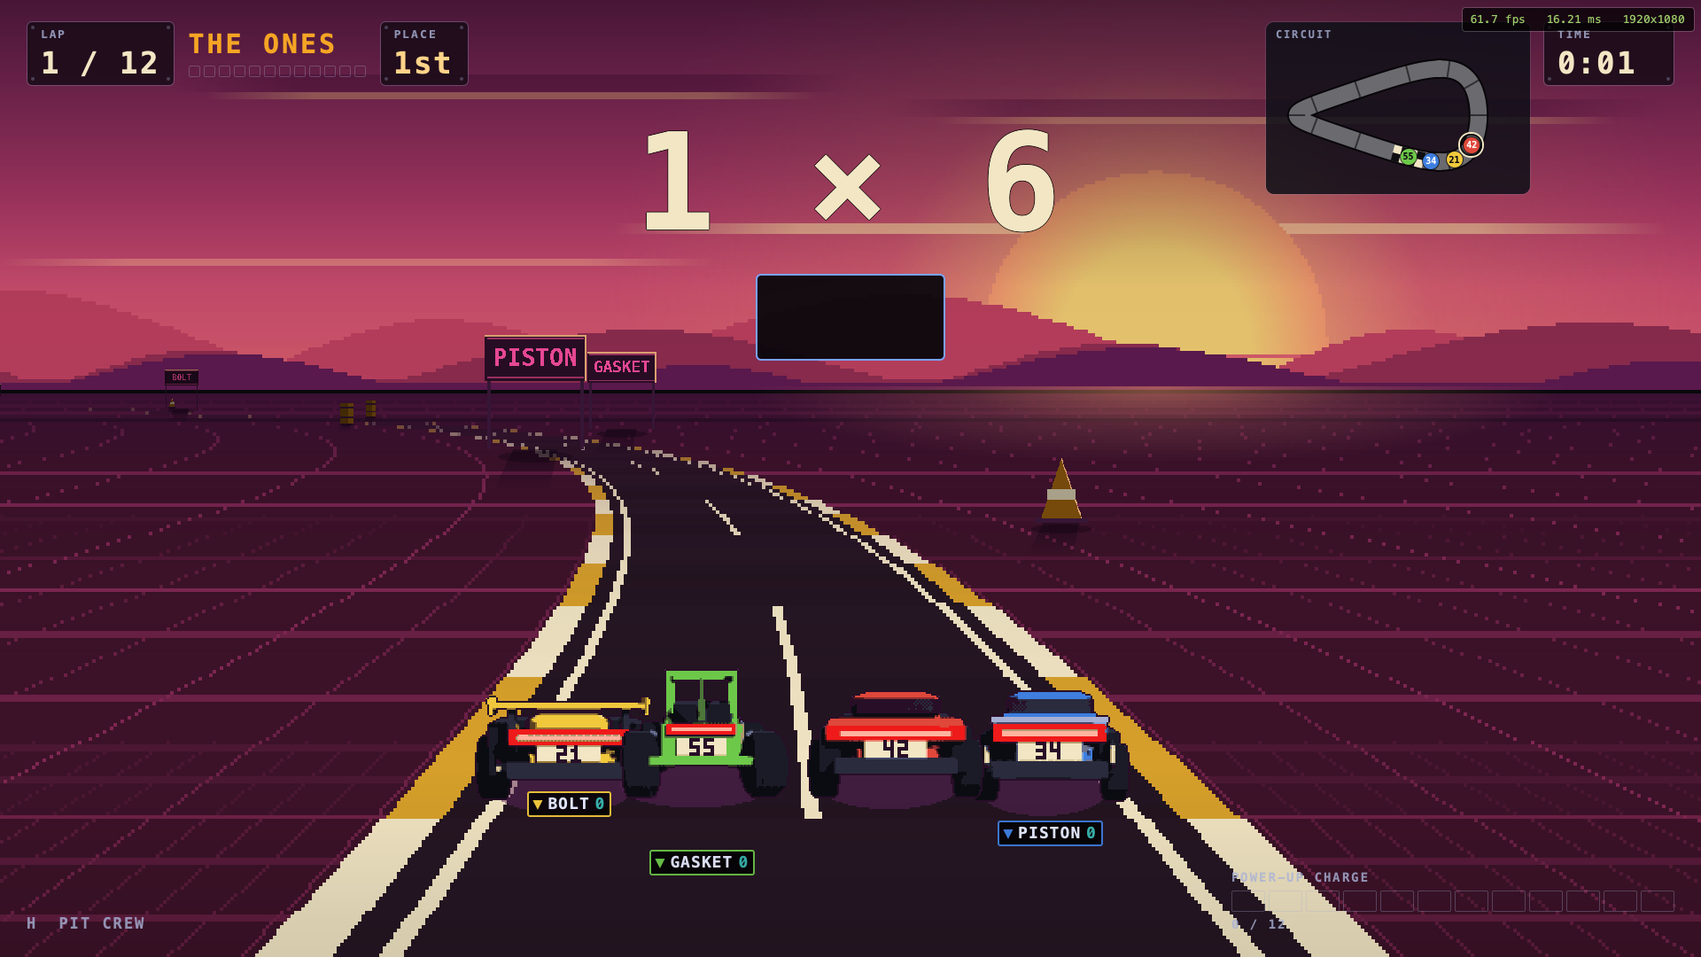
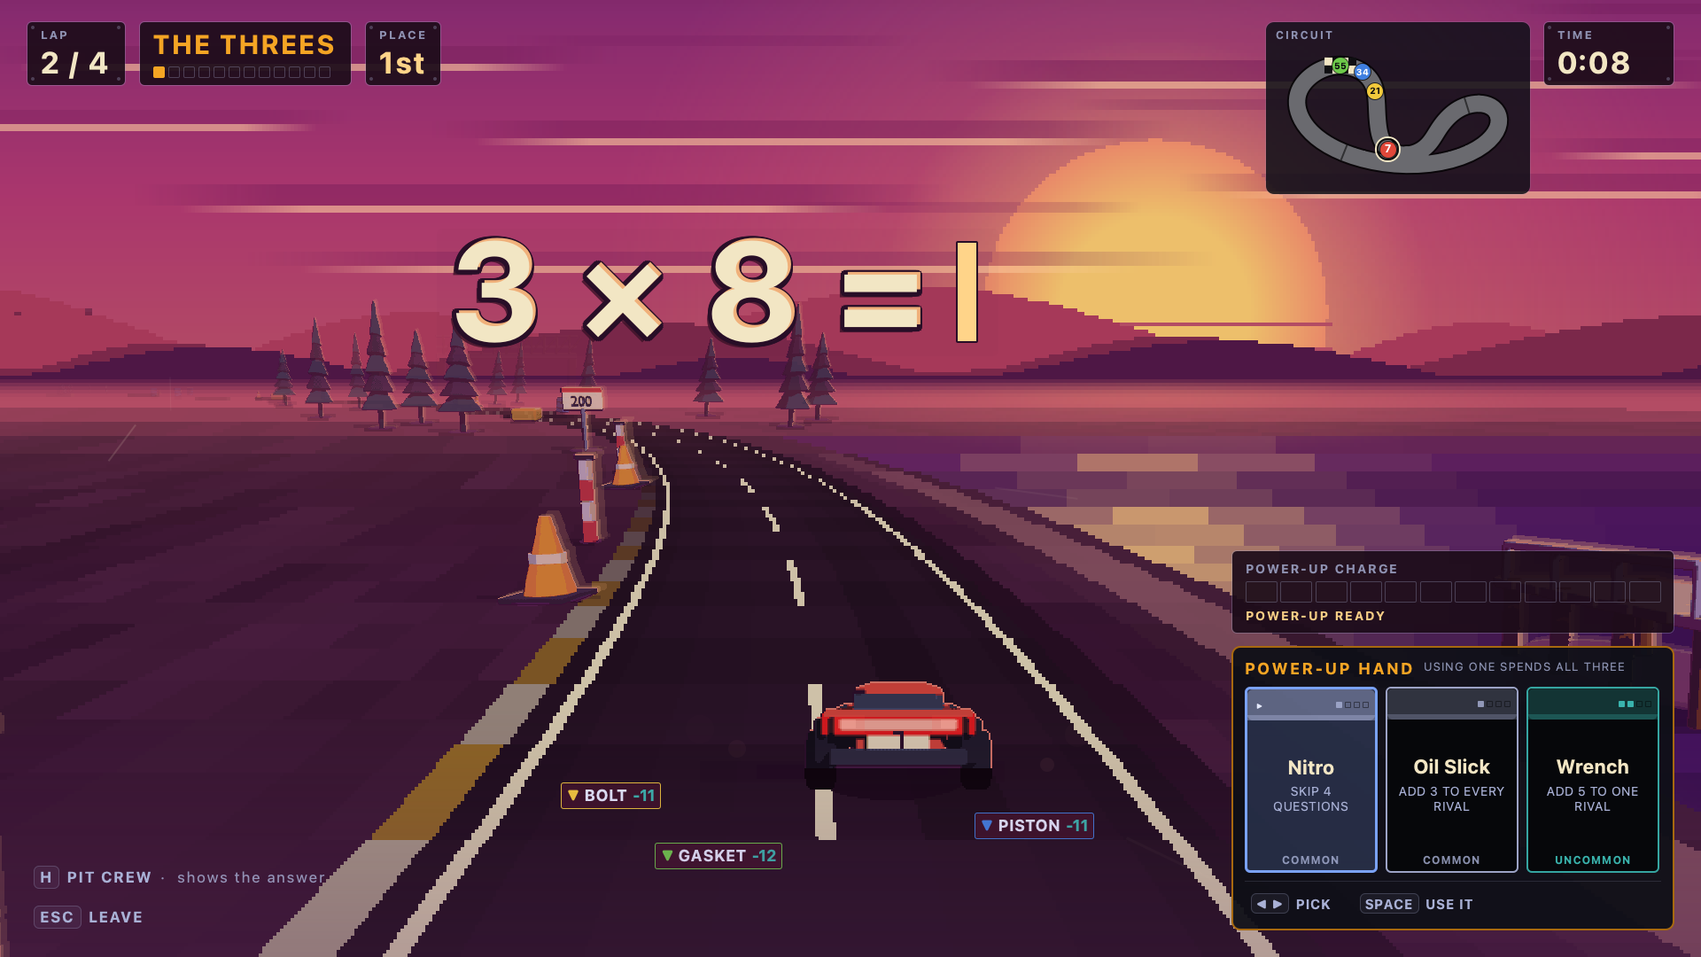
HANDOFF.md: the play-test packet, with the pictures of every screen at this commit
Rewritten for two readers: the maintainer opening the pull request into main,
and the next coordinator. Where every piece stands, what was done today for the
play test (F rounds 7 and 8, the packaging commit, the executed add/remove
cycle, the CI fix on the runner's Qt 6.4), what round 8 leaves open and
unjudged, the performance numbers with the caveats that make them readable,
what testers should be asked to report, the environment facts, and the kickoff
prompt. The install URL is in the README only: this file is inside the honesty
gate's scope and the no-network invariant refuses it a URL.

docs/handoff/ now holds the garage, the countdown at GO, the race with a hand
dealt, and the results, all from the round-8 keyboard-only Grand Prix.

diff --git a/HANDOFF.md b/HANDOFF.md
@@ -1,149 +1,156 @@
-# Handoff: Turbo Tables Solo, after piece C round 3
+# Handoff: Turbo Tables Solo, ready for the play-test pull request
 
-Written 2026-09-04 at `cc4064b` on `gauntlet/turbo-tables-build`. The run stopped
-on the maintainer's instruction once the cars were judged ready enough to hand
-back to the gauntlet loop with the new assets, not because every piece is won.
-This packet is written for the next coordinator. Read `docs/plan.md` (v2) and
-`docs/design.md` (v3) first; this file says where the tree is against them.
+Written 2026-09-07 on `gauntlet/turbo-tables-build`. This packet is for two readers: the
+maintainer opening the pull request into `main`, and the next coordinator who continues the
+gauntlet loop after the play test. It says where every piece stands against `docs/plan.md`
+(v3.1) and `docs/design.md` (v4.2), what was proved today, and what is still open.
 
 ## 1. Where the tree stands
 
 | piece | state | last verdict |
 | --- | --- | --- |
-| 1 rules engine | frozen won (round 2) | "Better implementation of the specification: A" (ours) |
-| 2 rivals, ghost, save | frozen won (round 4) | "YES: `src/engine/save.ts` now implements the design's Data and Modes rows faithfully" |
-| 6 package and gates | frozen won (round 4, hardened round 5) | "Winner: Candidate A" (ours) |
-| 7 shell integration | won round 2, hardened round 3 | "As good as the first-party overlay? YES. Safe on a child's machine? YES." Round 3 (cold-summon warm-up) is built and VM-verified: 0 of 25 keys leaked over 5 cold starts, 0 of 35 warm. |
-| C cars | **built through round 4, not yet judged** | Round 3: "CRAFT: NO. Pipeline: YES" -- the finding was that there is no glasshouse. Round 4 answers it; see section 3. |
-| 3 garage | to re-run under v3 | Round 5: ours won "on content and interface, not on craft". Round 6 built (one camera, real shadow, Tab) and never judged. |
-| 4 race view | to re-run under v3 | Round 2: ours won "partly on craft, for the first time, and still not on the picture". Round 3 built (minimap, the loop that never ran) and never judged. |
-| 5 countdown, picker, results, settings | to re-run under v3 | Round 3: NO (the card key cost a streak). Round 4 built (the rewrite) and never judged. |
-| seam (save file end to end) | **open, and the first thing to do** | Round 2: "YES, this plugin can still replace a child's records". Round 3 built. Then the VM verifier found the way out dead; section 4. |
+| 1 rules engine | frozen won | "Better implementation of the specification: A" (ours) |
+| 2 rivals, ghost, save | frozen won | "YES: `src/engine/save.ts` implements the design's Data and Modes rows faithfully" |
+| C cars | frozen as a build (round 4) | Round 3 said craft NO on the glasshouse; round 4 answered it and was the last round on it by the maintainer's instruction |
+| seam (save file end to end) | closed (round 4) | The dead START A NEW SAVE FILE button found in the VM was fixed in seam round 4 and proved on the four quarantine cases |
+| 7 shell integration | won and hardened (round 3) | "As good as the first-party overlay? YES. Safe on a child's machine? YES." Cold summon 0 of 25 keys leaked |
+| T track | built to round 3 | The shader world and the prop kit placed by sector; judged by the maintainer's play, not yet by a critic |
+| M mouse | built to round 5 | Every control clickable with parity to the keyboard; `tst_mouse_parity` is the gate |
+| F feel | **round 7 WIN; round 8 built, not yet judged** | Round 7: "the hand now fires on the first press of a key that can never be a digit ... and the answer line `7 × 8 = ▮` is unmistakably the place to type." Round 8 (`49159fd`) answered nine of the critic's twelve defects with a named test and a mutation each; a fresh critic has not seen it |
+| 3 garage | round 2 under v4 | One room, one light; judged by the maintainer's play |
+| 5 countdown | round 1 under v4 | The race's own view held at the start line |
+| 6 package and sound | round 1 under v4; sound handed off | Fifteen synthesised power-up cues nobody has heard (`docs/open-questions.md` section 6) |
 
-Every gate is green at `cc4064b`: `npm run check` exit 0 (657 engine tests,
-types, boundary, bundle, sprites, README honesty), `qmltestrunner` 136/0 on
-`tests/qml` and 37/0 on `tests/qml-shell`, scanner `passed`, and
-`npm run sprites -- --verify` rebakes all 48 sheets byte-identical.
+Every gate is green at HEAD: `npm run check` exit 0 (engine tests, types, boundary, qml ids,
+key hints, bundle, sprites, props, terrain, sfx, README honesty, marketplace scan `passed` with
+no findings and no capabilities), `qmltestrunner` 307/0 on `tests/qml` and 38/0 on
+`tests/qml-shell`, 659 engine tests, and the CI mouse suite 43/0 on the runner's Qt 6.4 as well
+as on Qt 6.11. CI is green at `49159fd`.
 
-## 2. Install, open, play
+## 2. What was done for the play test on 2026-09-07
 
-Install as the README says: clone into `~/.config/omarchy/plugins/` and
-`OMARCHY_PATH=/usr/share/omarchy omarchy plugin enable io.github.dmcchesney.turbo-tables-solo`.
-The overlay needs its own entry under `plugins` in `~/.config/omarchy/shell.json`;
-`omarchy plugin enable` writes it (see `docs/environment.md` for the traps).
-Open it from the kart button in the bar, or bind a key:
+- **Piece F round 7** (`5d53a5d`): the maintainer's second-session findings. Digits never touch
+  the hand; Left and Right move the highlight, Up and Down aim, Space fires; Enter is only the
+  answer and Escape only leaves. The fact and the answer are one line with a blinking caret;
+  the stall is drawn on that line; one callout slot; race hints are key caps; results say
+  ANSWERS SHOWN, BEST COMBO and N CARDS PLAYED under a sunset band. A blind critic called it a
+  WIN on the two findings.
+- **Packaging** (`a88cf47`): `manifest.json` and the README stop saying the game is being built.
+  `preview.png` is the garage as the plugin draws it, taken through the harness; the README gate
+  now requires it and holds README and NOTICE to the same two sentences about it. The 1.78 MB
+  multiplayer mock is deleted. NOTICE records the props, the sound and the shader.
+- **The add, enable, play, remove cycle was executed** in the Omarchy 4 VM against a clone of
+  the pushed branch under a different plugin id: add cloned, validated and enabled both kinds;
+  the overlay opened and a race ran; remove deleted the folder and unloaded the plugin and left
+  the second kind's `shell.json` entry behind exactly as the README says, which
+  `omarchy plugin disable` cleared. The README's Remove section now says so.
+- **Piece F round 8** (`49159fd`): the engine decides a card was spent. `fire()` requests a play
+  and the slam, the sound and the hand's reset happen only on the engine's `cardUsed`; nothing
+  fires after the child has finished, during the deal, or with no rival to aim at. `POWER-UP
+  READY` reads on the charge bar at the deal; digits typed during a pit-crew reveal are held;
+  the countdown draws the full line `7 × 8 = ▮`; the Pile-Up telegraph is the decided 900 ms;
+  the callout slot hangs above the line's ink so it can never sit on a far kart (a departure
+  from v4.1's "under the fact line" wording, with the measurements in the commit); browsing
+  cards keeps the aim; the three-digit-answer test is back; the harness's card injection is
+  bounded. Sixteen mutations each kill their named test. A flaky mouse-parity case was a real
+  race (a card was a click target while being dealt) and is fixed.
+- **CI on the runner's Qt** (`0fe3ca6`): two mouse-parity tests failed only on Ubuntu 24.04's
+  Qt 6.4.2. Reproduced in a container built from the workflow's own package list; neither was a
+  product defect (a discarded delegate Qt 6.4 still reports visible; the software renderer
+  re-rasterising two text layers on first hover). The tests now measure the rule, and each still
+  fails when its rule is broken.
+
+## 3. Open after round 8
+
+Unjudged: round 8 has not had a blind critic; the round-7 verdict is
+`scratchpad/verdicts/pF-round7.md` in session 661478d4 and round 8's evidence is `pF8/` there.
+Left deliberately: the hand card text overruns its tier label at 1024 by 600 (pre-existing);
+the highlight is a border tone and a small mark, which is a design call; the victim's impact
+(sparks, jolt, smoke) from `docs/open-questions.md` 5.3 item 5 is its own piece. Observed and
+not touched: the fact line is drawn 114 px higher on the countdown than in the race at 1080p,
+so it moves across the cut; GO on the countdown is now 17 to 19 percent of the frame beside
+the wider line, down from 23. The pictures of every screen at this commit are under
+`docs/handoff/` (`garage-after.png`, `countdown-after.png`, `race-after.png`,
+`results-after.png`).
+
+## 4. Performance, measured today
+
+The plan's performance section binds every remaining round and says the in-game counter
+saturates; these are the numbers behind it.
+
+| where | state | CPU | RSS |
+| --- | --- | --- | --- |
+| VM shell process, llvmpipe, 1920 by 1200 | overlay closed | 0 | 644 MiB |
+| | garage open | 0 | 674 MiB |
+| | racing | 2.1 cores | 722 MiB |
+| | closed again after a race | 0 | 731 MiB |
+| Mac harness, software backend | race at 1920 by 1080 | 22 ms CPU per frame | 265 MB |
+| | race at 480 by 270 | 17 ms CPU per frame | 217 MB |
+| | track held still at 480 by 270 | 2.6 ms per frame | |
+| | garage | about 0 | |
+
+Read with care: the VM image forces software rendering for every shell window
+(`LIBGL_ALWAYS_SOFTWARE=1`), which a child's machine with an integrated GPU does not; and under
+Qt's software backend the track takes the Canvas road fallback, so the Mac's per-frame number
+is the JavaScript road a GPU machine never runs. Neither is the child's machine. The plugin
+retains about 87 MiB after the overlay closes, and the prop kit decodes to 145 MB of RGBA from
+0.43 MB on disk (the water tower is 2592 by 2870 for a sprite sixty pixels tall). The steps, in
+order: a real instrument (CPU seconds per frame at two sizes); render the whole race into a
+half-resolution layer when Qt reports a software renderer; a smaller prop kit and freeing the
+race's images on close; audit the per-frame JavaScript; run the VM shell without the software
+variable for a virgl number; ask testers for their GPU and a shell CPU reading while racing.
+
+## 5. Install, open, play
+
+Install with the one-line `omarchy plugin add` command in the README's Install section (this
+file may not carry a URL: the honesty gate's no-network invariant covers it). Open it from the
+kart button in the bar, or bind a key:
 
 ```lua
 o.bind("SUPER + SHIFT + T", "Turbo Tables", "omarchy-shell shell toggle io.github.dmcchesney.turbo-tables-solo")
 ```
 
-`Escape` closes the overlay and hands the keyboard back.
+Play, in order: Practice on the 2s to 5s; a Time trial; the Ghost against it; a Grand Prix at
+Pro rivals. `Escape` is back one everywhere. Remove with
+`omarchy plugin remove io.github.dmcchesney.turbo-tables-solo --yes`, then
+`omarchy plugin disable` once more for the overlay's entry, then delete
+`~/.local/share/turbo-tables-solo/garage.json` if the records should go too.
 
-What to play, in order, to see the whole game:
+## 6. What testers should be asked to report
 
-1. Practice on the 2s to 5s (garage: MATH SET, then READY UP).
-2. A Time trial on the same set.
-3. The Ghost against your own time trial.
-4. A Grand Prix at Pro rivals: the full 12-lap race with power-ups and the results screen.
+- Their graphics hardware (`lspci | grep -i vga`) and the shell's CPU while racing (`top`
+  on `omarchy-shell`), because no GPU number exists yet.
+- Whether the hand fires the first time, every time, and whether the answer line is where
+  they typed without being told.
+- Anything the sound does, since nobody who built it has heard it.
+- The size of their screen: the game is checked at 1920 by 1080, 1366 by 768 and 1024 by 600.
 
-## 3. The cars, before and after
+## 7. Known flakes and environment facts
 
-The bar is `docs/golden-hour-car.png`. The pictures:
-
-- `PREFIX/evidence/pieceC-r4-ours.md` and the images beside it are round 4's evidence.
-- `docs/handoff/coupe-beside-the-bar.png`: the crop, then the round-2 coupe, then the round-3 coupe, stall camera, nose to the lens, at 3x.
-- `docs/handoff/bodies-before-after.png`: six bodies, round 2 on the left, round 3 on the right, at stall/0, stall/4 and road/0.
-- `docs/handoff/cutouts-before-after.png`: the same as black cut-outs, the plan's silhouette test.
-- `docs/handoff/garage-after.png`, `countdown-after.png`, `race-after.png`: the three screens at 1920x1080 through the harness, seeded body 0, paint 0, number 42.
-
-What round 3 changed and measured (the critic's own scripts, 192 cells):
-
-| measure | round 3 | round 4 |
-| --- | --- | --- |
-| greenhouse band that is the OUTLINE tone, coupe / hatch / saloon, stall 192 | 37 / 50 / 34% | 2.5 / 3.7 / 2.0% |
-| greenhouse band that is a GLASS tone, same three | 0 / 0 / 0% | 24.1 / 35.5 / 21.5% |
-| sun-side body edge carrying the rim step, lamp and cream pixels excluded, road/0 192 | 0.0% on all six | 89.5 to 95.4% |
-| the same on the SHADOW-side edge | 0.0% | 0.0 to 1.3% |
-| cut-out pairs under 15%, all 15 pairs x 8 yaws x 5 drawn cells | 42 of 600 | 29 of 600 |
-| worst single pair-yaw, any drawn cell | 5.4% (coupe/pickup, stall 48, yaw 5) | 9.3% (same pair and cell) |
-| coupe vs saloon in the roster slot (stall 96, the pick screen) | 12.4% | 16.0% |
-| coupe against saloon, stall 192 | 129x64 vs 134x65 (the claim was false) | 133x65 vs 129x66 |
-| tail lamp pixels at the worst drawn cell, per body | 0 on buggy and pickup at stall 48 | 5 or more everywhere |
-| ramp steps that classify as another paint's hue | yellow's deep step, all 6 bodies | none |
-| highlight saturation, purple / blue / pink | 0.33 / 0.39 / 0.37 | 0.43 / 0.52 / 0.41 |
-| cream on the flank at stall 192 (the livery) | 407 px, all of it plate and roundel | a door panel per flank; see the evidence |
-| sheets on disk | 1,294,730 bytes | see `assets/karts/manifest.json` |
-
-Round 4 answered a blind critic's round-3 verdict, whose finding was that the
-cars had **no glasshouse**: the windows were painted `2a1030`, three units from
-the outline ink `280e27`, so every window pixel quantised to the outline colour
-and the roof floated as a lid over a hole with no pillar. Glass now has its own
-palette tone and is emitted rather than lit, so it is that tone at every yaw;
-each closed body has two side windows with a body-colour pillar between them
-and a dark beltline moulding under them; the flanks are deeper so the door
-roundel sits on bodywork instead of hanging over the shoulder; and the livery
-is a cream door panel between the arch openings instead of a band the arch
-cutters ate. `pxart.outline()` now draws the sunward third of the ring in the
-paint's highlight step, so the ink line breaks where the sun is.
-
-`src/tools/carstats.py` is new and is where every number above comes from. It
-exists because round 3's "rim" figure was reproducible to the decimal and
-substantively false: 47 to 93% of the pixels it counted were the fixed
-tail-lamp glow strip. Every count in it names its exclusions, and the rim
-table carries a shadow-side column that must stay near zero.
-
-**Reservations on the cars, stated plainly.** Round 4 has not been judged. The
-sun-side rim is now a constructed feature, so its 90% is a coverage check of a
-deliberate edge, not a discovery: the honest pair is that number beside the
-0.0% shadow-side share. `coupe/pickup` at stall 48 yaw 5 is still 9.3% and
-`hatch/saloon` at stall 96 yaw 5 is 11.3%, so three of the fifteen pairs still
-collide at some yaw. Headlamps are still unlit at rest and are only ever seen
-from the stall camera's front quarters. The number is still never drawn in the
-roundel and on the plate at once. Nothing was done about the Bayer checkerboard
-on flat dark panels beyond what the glass tone removed, or about the detached
-5 px islands on the buggy's cage at the 48 cell.
-
-## 4. The seam: the way out is dead, and the tests hid it
-
-A verifier drove the real shell in the VM at `b9fb591` and found that the
-quarantine's START A NEW SAVE FILE button never reaches `shell/FileStore.qml`
-for any read-side quarantine (corrupt, legacy, `chmod 000`, shut home). Cause:
-`ui/Store.qml` runs `adopt(null)` at construction, before `TurboTables.qml`
-assigns the text backend, which sets the protocol latch to "object"; the
-authorised replacement then refuses "text" against "object" and the strip
-shows an internal sentence about protocols. `tests/qml/tst_store.qml` hid it
-by setting `Store._adoptedFormat = ""` by hand before the button scenarios.
-Underneath, the shell runtime's file writer cannot replace a `chmod 000`
-file at all (`saveFailed(PermissionDenied)`, atomic or not), which the test
-double under `tests/qml-shell/` (`FakeFs.qml`) models as succeeding. No save was
-destroyed; the family is left in the trapdoor. The full report is section 4
-of the verifier's file (`scratchpad/verdicts/vm-b9fb591.md` in session
-2feb2154; the defect list is reproduced in the kickoff prompt below). A seam
-round-4 builder was briefed and died at a usage limit before editing anything.
-**This is the first piece to run.**
-
-## 5. Frame rates, honestly framed
-
-- Mac, software rasteriser, offscreen, 1920x1080 through the harness: garage 62.7 fps, countdown 62.4, race 61.7. These are the harness's own counter under the software backend; they say the CPU can paint the frame, not what a GPU does.
-- VM, real shell, race view: 35.5 fps, median 29 ms per frame, p95 37 ms. **The VM image pins every Qt client to llvmpipe** (`LIBGL_ALWAYS_SOFTWARE=1` in Hyprland's environment), so this is the software path; a scratch instance without the variable gets virgl and 60 fps on a trivial scene. The device number has still not been measured on a GPU.
-
-## 6. Placeholders and things accepted with a reservation
-
-- The garage's left wall and shelves are flat; the roller door and sunset are the prototype's.
-- The race view's rival labels float under or over far cars, and lane 0 puts a car's wheels on the kerb at the start line (both noted by two critics; piece 4's re-run owns them).
-- Sound is absent by design at this stage; the README makes no audio claim.
-- `docs/open-questions.md`: race mode and math set are not persisted (the design's Data row), and the multi-agent tree rule (never `git checkout --` here).
-- The M2 gate clause at Pro (about 50%) was diagnosed as correlation and recorded, not fixed.
-- Piece 7's "the first summon leaks keys" is closed and VM-measured; the "full disk" and "hung mount" cases remain inference.
-
-## 7. Environment facts the next coordinator needs
-
-- Every Qt process on the Mac is headless (`QT_QPA_PLATFORM=offscreen`, `QT_QUICK_BACKEND=software`, `-platform offscreen`); Don works on the machine while agents run. Blender runs `-b` only.
-- Never revert with git in this tree; several agents write to it and it is 9p-mounted live into the VM. A builder that must rebake works in a worktree and fast-forwards.
-- The VM is up again (`ssh omarchy-turbo-tables`); `utmctl start` on a running VM says OSStatus -2700, which is not an error. Never `omarchy plugin remove` there.
-- The scanner needs `TURBO_TABLES_MARKETPLACE=/Users/don/Developer/omarchy-plugin-marketplace` from a worktree.
-- `qmltestrunner -platform offscreen -import ui -import dev/imports -input tests/qml` and `-import ui -import tests/qml-shell -input tests/qml-shell`.
+- `tst_mouse_parity` `test_32` was flaky about one run in three; round 8 found the cause (a
+  card accepted clicks while being dealt) and fixed it, 6 of 6 green after.
+- CI's QML job runs Ubuntu 24.04's Qt 6.4.2 and only the mouse suite and the parity walk; the
+  298-test suite runs on the Mac and in the VM (Qt 6.11). A faithful container recipe is in the
+  session scratchpad under `ci-qt/`.
+- Every Qt process on the Mac is headless; never open a window. Never revert with git in this
+  tree and never `git add -A`; several agents write to it and it is 9p-mounted into the VM.
+- The VM's `omarchy-launch-shell` is a supervisor that respawns the shell; kill supervisors by
+  pid, then the shells, clear `/run/user/1000/quickshell`, launch once, wait for the ping.
+- The scanner needs `TURBO_TABLES_MARKETPLACE=/Users/don/Developer/omarchy-plugin-marketplace`
+  when run from a worktree.
 
 ## 8. Kickoff prompt for the next session
 
-> Continue the Turbo Tables Solo build under `docs/plan.md` v2 and `docs/design.md` v3 from `cc4064b` on `gauntlet/turbo-tables-build`; read `HANDOFF.md` first. Pieces 1, 2 and 6 are frozen won; piece 7 is won and hardened. First run **seam round 4** as a piece of its own: the quarantine's START A NEW SAVE FILE button is dead in the shipping wiring (`ui/Store.qml` latches "object" at construction before `TurboTables.qml` assigns the text backend; `tst_store.qml` hides it by hand-setting `_adoptedFormat`; `FakeFs.qml` models a `chmod 000` file as writable when the shell runtime in the VM refuses it) and the fix must be proved in the VM with the button route S, Down x7, Return, Right, Return on a legacy file, a `chmod 000` file, a corrupt file and a missing file, restoring the guest's save byte-identical. Piece C is **finished as a build**: round 4 was the last round on it, on the maintainer's instruction, judged or not. If it is judged, judge it blind against `docs/golden-hour-car.png` on the interior, not the cut-out -- the bar loses a pure cut-out test too -- and use `src/tools/carstats.py` to reproduce any number in section 3. Then pieces 3, 4 and 5 in parallel from the current tree (the prototype is already merged; do not start from `proto/golden-hour`), then 6, then 7 in the VM. For each piece fan out a builder and a fresh critic; the critic compares ours against the bar blind, labels stripped, on that piece's rubric, and is harsh. Every Qt process is headless; never open a window on this Mac. Never revert with git in this tree. Never break the rules under "Rules the builder may not break." `/loop` on each piece until the critic picks ours. When every open piece is won and CI is green, rewrite `HANDOFF.md` and stop.
+> Continue the Turbo Tables Solo build under `docs/plan.md` v3.1 and `docs/design.md` v4.2 from
+> HEAD of `gauntlet/turbo-tables-build`; read `HANDOFF.md` first. Pieces 1, 2, 6 (v1), C, 7 and
+> the seam are frozen. Piece F is won on the maintainer's findings; run one blind critic on
+> round 8 (`49159fd`) first and carry forward whatever it and section 3 leave open. Then a performance piece under the plan's performance section,
+> instrument first, with the steps HANDOFF section 4 gives and the play testers' hardware
+> reports as the bar. Then the victim-impact work of `docs/open-questions.md` 5.3 item 5 as a
+> piece of its own, then 3 and 5 under v4.2, then 6, then 7 in the VM. Never two pieces on one
+> file at once. For each piece fan out a builder and a fresh critic; the critic compares ours
+> against the bar blind, labels stripped, on that piece's rubric, and is harsh. Every Qt process
+> is headless; never open a window on this Mac. Never revert with git in this tree, and never
+> `git add -A`. Never break the rules under "Rules the builder may not break." `/loop` on each
+> piece until the critic picks ours. When every open piece is won and CI is green, rewrite
+> `HANDOFF.md` and stop.
